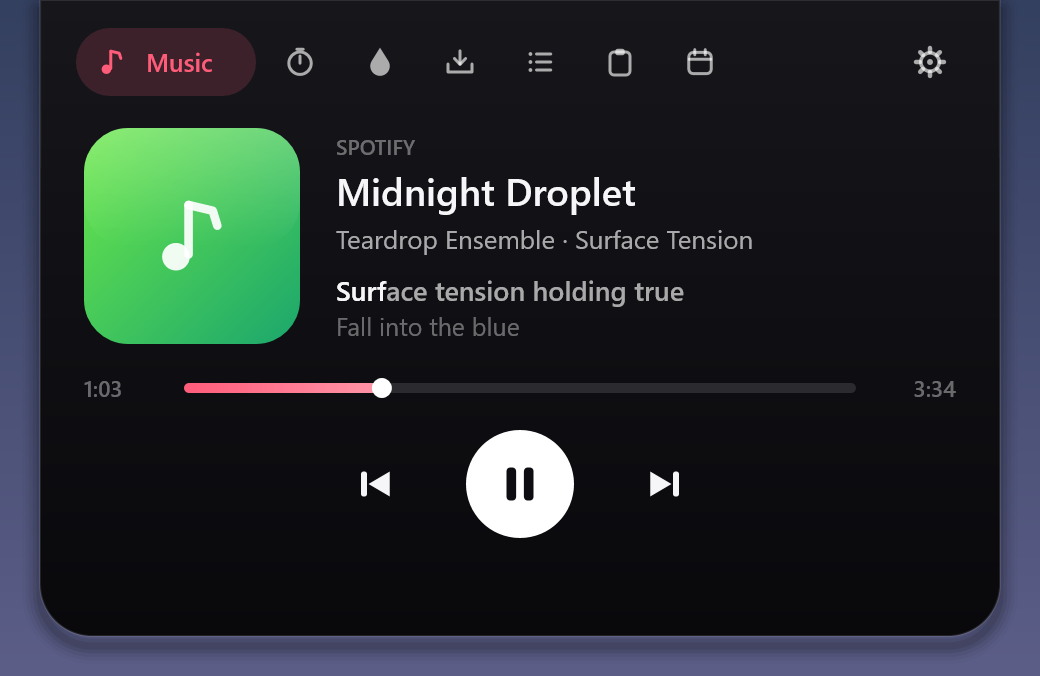
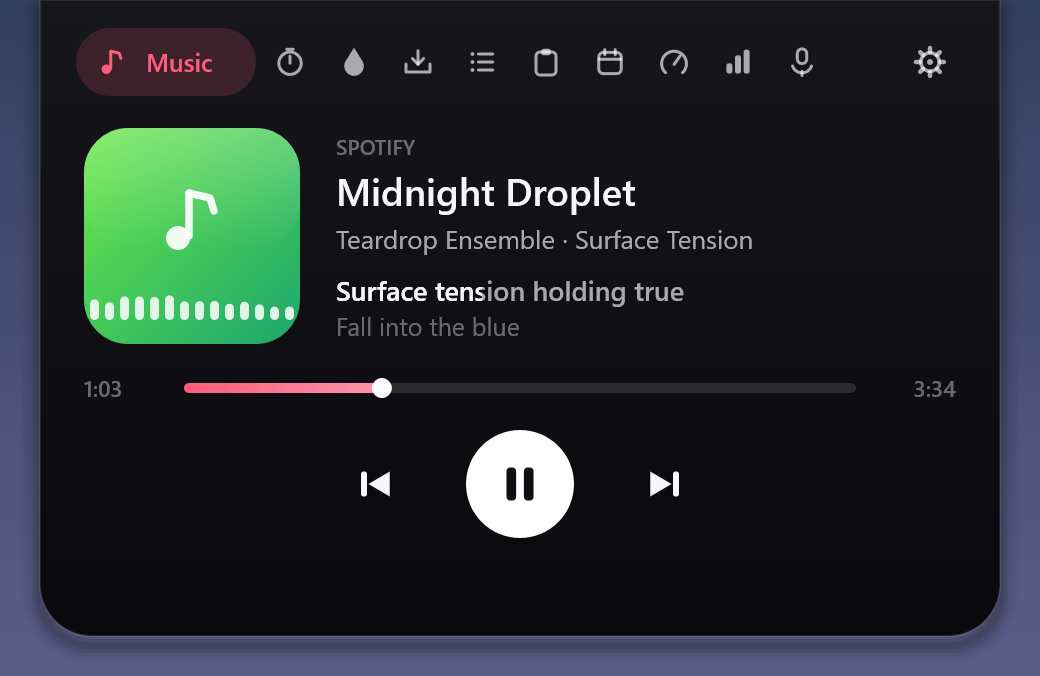
README: meet Droppy, document the new pages and features
- Mascot (Droppy) and logo at the top, link to the brand kit
- New: calendar, Speed, Usage, Voice, drag chooser (Shelf / Phone Link),
  meeting pill and alert, recording indicator, visualizer
- Privacy section now lists every network call; install and update notes
- Refreshed screenshots from --selftest (ten-tab header)

diff --git a/README.md b/README.md
@@ -1,3 +1,7 @@
+<p align="center">
+  <img src="docs/img/teardrop-mascot-512.png" alt="Droppy, the Teardrop mascot" width="150">
+</p>
+
 <h1 align="center">Teardrop</h1>
 
 <p align="center">
@@ -11,12 +15,24 @@
 </p>
 
 <p align="center">
-  Native Rust &middot; no web view, no runtime &middot; under 1 MB &middot; GPU-drawn and vsync-locked (60 to 240 Hz)<br>
+  Native Rust &middot; no web view, no runtime &middot; a single ~3 MB exe &middot; GPU-drawn and vsync-locked (60 to 240 Hz)<br>
   No accounts, no tracking: your data stays on your PC.<br>
   <sub><a href="docs/demo.mp4">Full-quality demo (MP4, 60 fps)</a></sub>
 </p>
 
 ---
+
+## Meet Droppy
+
+Droppy is Teardrop's mascot: a plump little droplet with two capsule eyes that look around and blink. It's the face of the app icon and logo, and the same eyes live in the island itself when you pick the **Eyes** idle look.
+
+<p align="center">
+  <img src="docs/img/teardrop-logo-512.png" alt="Teardrop logo" width="150">
+  &nbsp;&nbsp;&nbsp;
+  <img src="docs/img/teardrop-mascot-512.png" alt="Droppy" width="150">
+</p>
+
+Brand files, mascot poses for each page and the drawing rules are in [docs/brand](docs/brand/README.md).
 
 ## What it does
 
@@ -24,15 +40,17 @@
 
 | | |
 |---|---|
-| <img src="docs/img/02-collapsed-music.png" width="270"> | **Music.** Artwork tile and a live equalizer. |
-| <img src="docs/img/03-music-peek.png" width="380"> | **Track change.** The title peeks out for a few seconds, then tucks away. |
+| <img src="docs/img/02-collapsed-music.png" width="300"> | **Music.** Artwork tile, the song title (it scrolls when it's long) and a live visualizer driven by what your speakers are actually playing. |
+| <img src="docs/img/09-collapsed-meeting.png" width="240"> | **Meetings.** From 10 minutes before a calendar event, the title and a countdown take over. |
+| <img src="docs/img/09-hud-meeting.png" width="340"> | **Meeting alert.** Five minutes before, a chime and a **Join** button. |
+| <img src="docs/img/09-collapsed-recording.png" width="190"> | **Recording.** A red dot and timer while the voice recorder runs. |
 | <img src="docs/img/08-collapsed-focus.png" width="216"> | **Focus.** A progress ring and countdown, even when you're on another page. |
 | <img src="docs/img/05-hud-volume.png" width="310"> | **Volume.** A level bar that follows your volume keys and mute. |
 | <img src="docs/img/06-hud-water.png" width="350"> | **Reminders.** Click the island to log **+250 ml** (or press `W` anywhere). |
 | <img src="docs/img/07-hud-charging.png" width="330"> | **Power and devices.** Charging, battery level, a headset arriving. |
-| <img src="docs/img/04-collapsed-eyes.png" width="144"> | **Idle.** A clock, a dot, nothing at all, or eyes with a life of their own: they dance to music (on the real beat), doze off when you step away, react to your pointer, track changes, lock/unlock, downloads, screenshots and more. Five styles: round, cat, pixel, anime, robot. |
+| <img src="docs/img/04-collapsed-eyes.png" width="144"> | **Idle.** A clock, a dot, nothing at all, or Droppy's eyes with a life of their own: they dance to music (on the real beat), doze off when you step away, react to your pointer, track changes, lock/unlock, downloads, screenshots and more. Five styles: round, cat, pixel, anime, robot. |
 
-**Open it** by resting the pointer on it, clicking it, pressing `Win`+`Shift`+`T`, or dropping a file on it. It doesn't scale a rectangle: it necks in where it hangs from the screen edge, swells into a bulb, then settles into a card.
+**Open it** by resting the pointer on it, clicking it, pressing `Win`+`Shift`+`T`, or dragging a file onto it. It doesn't scale a rectangle: it necks in where it hangs from the screen edge, swells into a bulb, then settles into a card.
 
 <p align="center">
   <img src="docs/img/morph.png" alt="Frames of the droplet stretching open" width="760">
@@ -40,28 +58,73 @@
 
 Move away and a hover-opened island folds back up. Click inside it and it stays pinned until you press `Esc` or click elsewhere.
 
+### Drag a file onto it
+
+The card splits into two drop zones and the one under your pointer lights up:
+
+<p align="center">
+  <img src="docs/img/23-drag-chooser.png" alt="Dragging files over the island: Shelf on the left, Phone Link on the right" width="520">
+</p>
+
+- **Shelf** keeps the file handy inside Teardrop.
+- **Phone Link** opens the Windows share window with your files already loaded; pick Phone Link there to send them to your phone. Phone Link shows its own transfer progress. Folders are skipped.
+
 ## Pages
 
 Scroll the mouse wheel over the header, or use `←` `→`, to switch. Everything is clickable, with hover and press feedback.
 
 <table>
   <tr>
-    <td width="50%"><img src="docs/img/20-page-music.png"><br><b>Music</b> &mdash; live info from any app that uses Windows media controls, real prev / play / next, click the progress bar to seek, time-synced lyrics with a karaoke highlight.</td>
+    <td width="50%"><img src="docs/img/20-page-music.png"><br><b>Music</b> &mdash; live info from any app that uses Windows media controls, real prev / play / next, click the progress bar to seek, a visualizer, and smooth time-synced lyrics with a karaoke highlight. YouTube titles are cleaned up so lyrics are found.</td>
     <td width="50%"><img src="docs/img/21-page-focus.png"><br><b>Focus</b> &mdash; a Pomodoro ring that keeps counting in the collapsed island. Adjustable length, cycle dots.</td>
   </tr>
   <tr>
     <td><img src="docs/img/22-page-water.png"><br><b>Water</b> &mdash; an animated glass, quick +150 / +250 / +500, undo, and a 7-day chart against your goal.</td>
-    <td><img src="docs/img/23-page-shelf.png"><br><b>Shelf</b> &mdash; drop files to keep them handy. Click to open, drag out to Explorer or another app, reveal in Explorer, or remove.</td>
+    <td><img src="docs/img/23-page-shelf.png"><br><b>Shelf</b> &mdash; keep files handy. Click to open, drag out to Explorer or another app, reveal in Explorer, or remove. Voice recordings land here too.</td>
   </tr>
   <tr>
     <td><img src="docs/img/24-page-tasks-typing.png"><br><b>Tasks</b> &mdash; type to add, click to tick off, hover to delete.</td>
     <td><img src="docs/img/25-page-clipboard.png"><br><b>Clipboard</b> &mdash; recent text, in memory only. Click a row to copy it back.</td>
   </tr>
   <tr>
-    <td><img src="docs/img/26-page-today.png"><br><b>Today</b> &mdash; a month calendar plus CPU, memory, disk and battery meters.</td>
-    <td><img src="docs/img/27-page-settings.png"><br><b>Settings</b> &mdash; behind the gear: hover-open, lyrics, reminders, history, sounds, fullscreen, start with Windows, water goal, idle look.</td>
+    <td><img src="docs/img/26-page-today.png"><br><b>Today</b> &mdash; a month calendar you can browse, with a dot on days that have meetings, and your next meetings with <b>Join</b> buttons. See <a href="#calendar">Calendar</a>.</td>
+    <td><img src="docs/img/26-page-speed.png"><br><b>Speed</b> &mdash; an internet speed test in the style of Ookla's Speedtest: a dial and needle, a round <b>GO</b> button, and Ping / Download / Upload cards.</td>
+  </tr>
+  <tr>
+    <td><img src="docs/img/26-page-usage.png"><br><b>Usage</b> &mdash; your Claude Code and Codex 5-hour and weekly limits, plus OpenCode token and cost totals. See <a href="#ai-tool-usage">AI tool usage</a>.</td>
+    <td><img src="docs/img/26-page-voice.png"><br><b>Voice</b> &mdash; one-tap microphone recorder with a live waveform. Saves a WAV file and puts it on your Shelf.</td>
+  </tr>
+  <tr>
+    <td><img src="docs/img/27-page-settings.png"><br><b>Settings</b> &mdash; behind the gear: hover-open, lyrics, reminders, history, sounds, fullscreen, start with Windows, water goal, idle look, and <b>Check for updates</b>.</td>
+    <td></td>
   </tr>
 </table>
+
+### Calendar
+
+Teardrop reads your calendar through an **iCal link**, so there's no sign-in and no account:
+
+1. Copy your calendar's iCal link.
+   - **Google Calendar:** Settings → your calendar → *Integrate calendar* → *Secret address in iCal format*.
+   - **Outlook:** *Settings → Calendar → Shared calendars → Publish a calendar → ICS*.
+   - Any other `https://` or `webcal://` `.ics` link works too.
+2. Open the **Today** page and press **Paste calendar link**.
+
+You can add several calendars. Recurring events, exceptions, moved instances and time zones (IANA and Windows names) are handled. Feeds refresh every 15 minutes and the last result is cached, so your agenda still shows offline. Join buttons only appear for known meeting sites (Google Meet, Zoom, Teams, Webex, Whereby, GoTo) over https.
+
+Limits: work or school Microsoft 365 calendars often have publishing turned off by the admin, so there's no link to copy. A feed can't tell Teardrop about your RSVP, so declined meetings still appear. The link is a secret: it's stored only in your settings file, never shown or logged, and Teardrop removes it from clipboard history after you paste it.
+
+### AI tool usage
+
+The **Usage** page reads data that's already on your PC and only starts when you first open it, then refreshes every five minutes:
+
+- **Claude Code:** your plan and 5-hour / weekly utilization, from Anthropic's usage endpoint using your existing Claude Code sign-in. Your token is only ever sent to `api.anthropic.com`, is never stored or logged, and is never refreshed (so it can't sign you out of Claude Code). If it has expired, the page says *Open Claude Code to sign in again*.
+- **Codex:** 5-hour and weekly limits that Codex writes into its own session logs. No token is read, and the numbers are as of the last time you used Codex.
+- **OpenCode:** token and cost totals for today and the last 7 days, read from its local database.
+
+### Voice recorder
+
+Recording only starts when you press the button. It captures your default microphone, saves a 16-bit WAV to `Music\Teardrop Recordings` and adds it to the Shelf so you can drag it into a chat or a folder. Nothing is uploaded. If Windows denies microphone access, the page says so. Recordings stop on their own after two hours.
 
 ### Keyboard
 
@@ -86,17 +149,32 @@ While the island is open and focused:
 
 ## Privacy
 
-Teardrop makes no accounts and sends no telemetry. The only network call is fetching synced lyrics from [LRCLIB](https://lrclib.net) for the track you're playing, cached locally, and you can switch it off in Settings. Clipboard history lives in memory only and skips items that password managers mark as private.
+Teardrop makes no accounts and sends no telemetry. It only talks to the network for features you use:
+
+| When | What it contacts |
+|---|---|
+| A song plays (can be switched off in Settings) | [LRCLIB](https://lrclib.net) for synced lyrics, cached locally |
+| Always, a few times a day | GitHub Releases to see if there's a newer version. It only downloads when you press **Update**, and checks the installer's SHA-256 first |
+| You press **GO** on the Speed page | Cloudflare's public speed-test servers |
+| You connect a calendar | Only the iCal links you pasted |
+| You open the Usage page | Anthropic's usage endpoint, with your Claude Code sign-in |
+| Weather mood is on (opt-in) | [wttr.in](https://wttr.in) |
+
+Clipboard history lives in memory only and skips items that password managers mark as private. The microphone is only used while you're recording. Files you send to Phone Link go through the standard Windows share window.
 
 Your data is in `%APPDATA%\Teardrop\`; cache and log are in `%LOCALAPPDATA%\Teardrop\`. The cache and log are safe to delete any time.
 
 ## Install
 
-Download **`teardrop-setup-<version>.exe`** from the [Releases](https://github.com/Alg0rix/teardrop/releases) page once a release is published. It installs per-user (no admin rights), adds a Start menu shortcut and launches Teardrop. There's also a portable `.exe` and zip if you'd rather not install. Builds are unsigned, so Windows SmartScreen warns on first run: choose **More info → Run anyway**.
+Download **`teardrop-setup-<version>.exe`** from the [Releases](https://github.com/Alg0rix/teardrop/releases) page and double-click it. It installs in a second, per-user (no admin rights, no wizard pages): it puts Teardrop in `%LOCALAPPDATA%\Programs\Teardrop`, adds Start menu and desktop shortcuts, sets it to start with Windows, and launches it. If Teardrop is already running, the installer closes it and updates it in place.
 
-Uninstall from *Settings → Apps*. It removes the app, cache and log and keeps your data.
+There's also a portable `.exe` and zip if you'd rather not install. Builds are unsigned, so Windows SmartScreen warns on first run: choose **More info → Run anyway**.
 
-No release yet? Build from source (below), or run `tools\package.ps1` for `dist\teardrop.exe`, a portable zip and, if [NSIS](https://nsis.sourceforge.io) is installed, the installer.
+**Updates:** open Settings and press **Check for updates**. When a newer release exists, the gear shows a dot and a button offers **Update to vX**.
+
+Uninstall from *Settings → Apps*. It removes the app and the cache and log, and keeps your data.
+
+Prefer to build it yourself? See below, or run `tools\package.ps1` for `dist\teardrop.exe`, a portable zip and the installer (it uses [Inno Setup](https://jrsoftware.org/isinfo.php) if installed, otherwise [NSIS](https://nsis.sourceforge.io)).
 
 ## Build
 
@@ -116,7 +194,7 @@ teardrop.exe --selftest dist\selftest    # a PNG of every state + report.json
 teardrop.exe --demo docs                 # re-render demo.gif / demo.mp4 (needs ffmpeg)
 ```
 
-`--selftest` runs the real renderer headless and exits non-zero if a layout or logic check fails. Environment variables:
+`--selftest` runs the real renderer headless and exits non-zero if a layout or logic check fails. The screenshots in this README come from it. Environment variables:
 
 | Var | Effect |
 |---|---|
@@ -128,7 +206,7 @@ See [ARCHITECTURE.md](ARCHITECTURE.md) for threads, the rendering model, page co
 
 ## Status
 
-Early. Developed and tested on Windows 11. The Shelf drags files out with OLE `DoDragDrop`, and the music progress bar seeks through Windows media controls.
+Early. Developed and tested on Windows 11. The Shelf drags files out with OLE `DoDragDrop`, the music progress bar seeks through Windows media controls, and Phone Link hand-off uses the Windows share window (Phone Link has no public API for sending files or reporting progress).
 
 ## License
 
